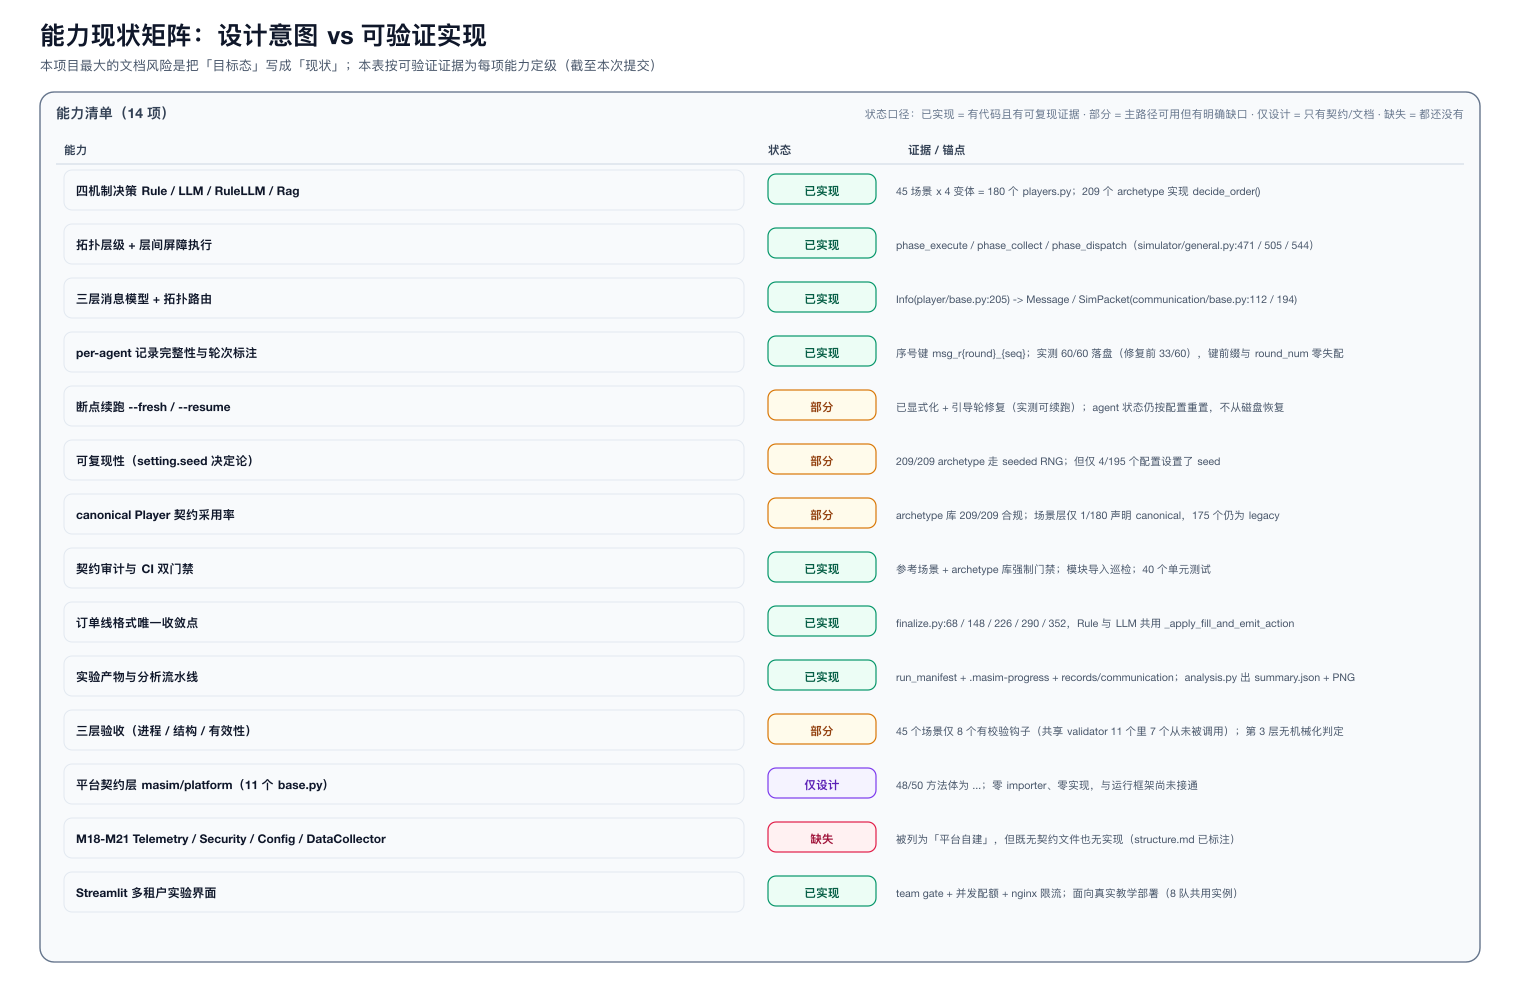
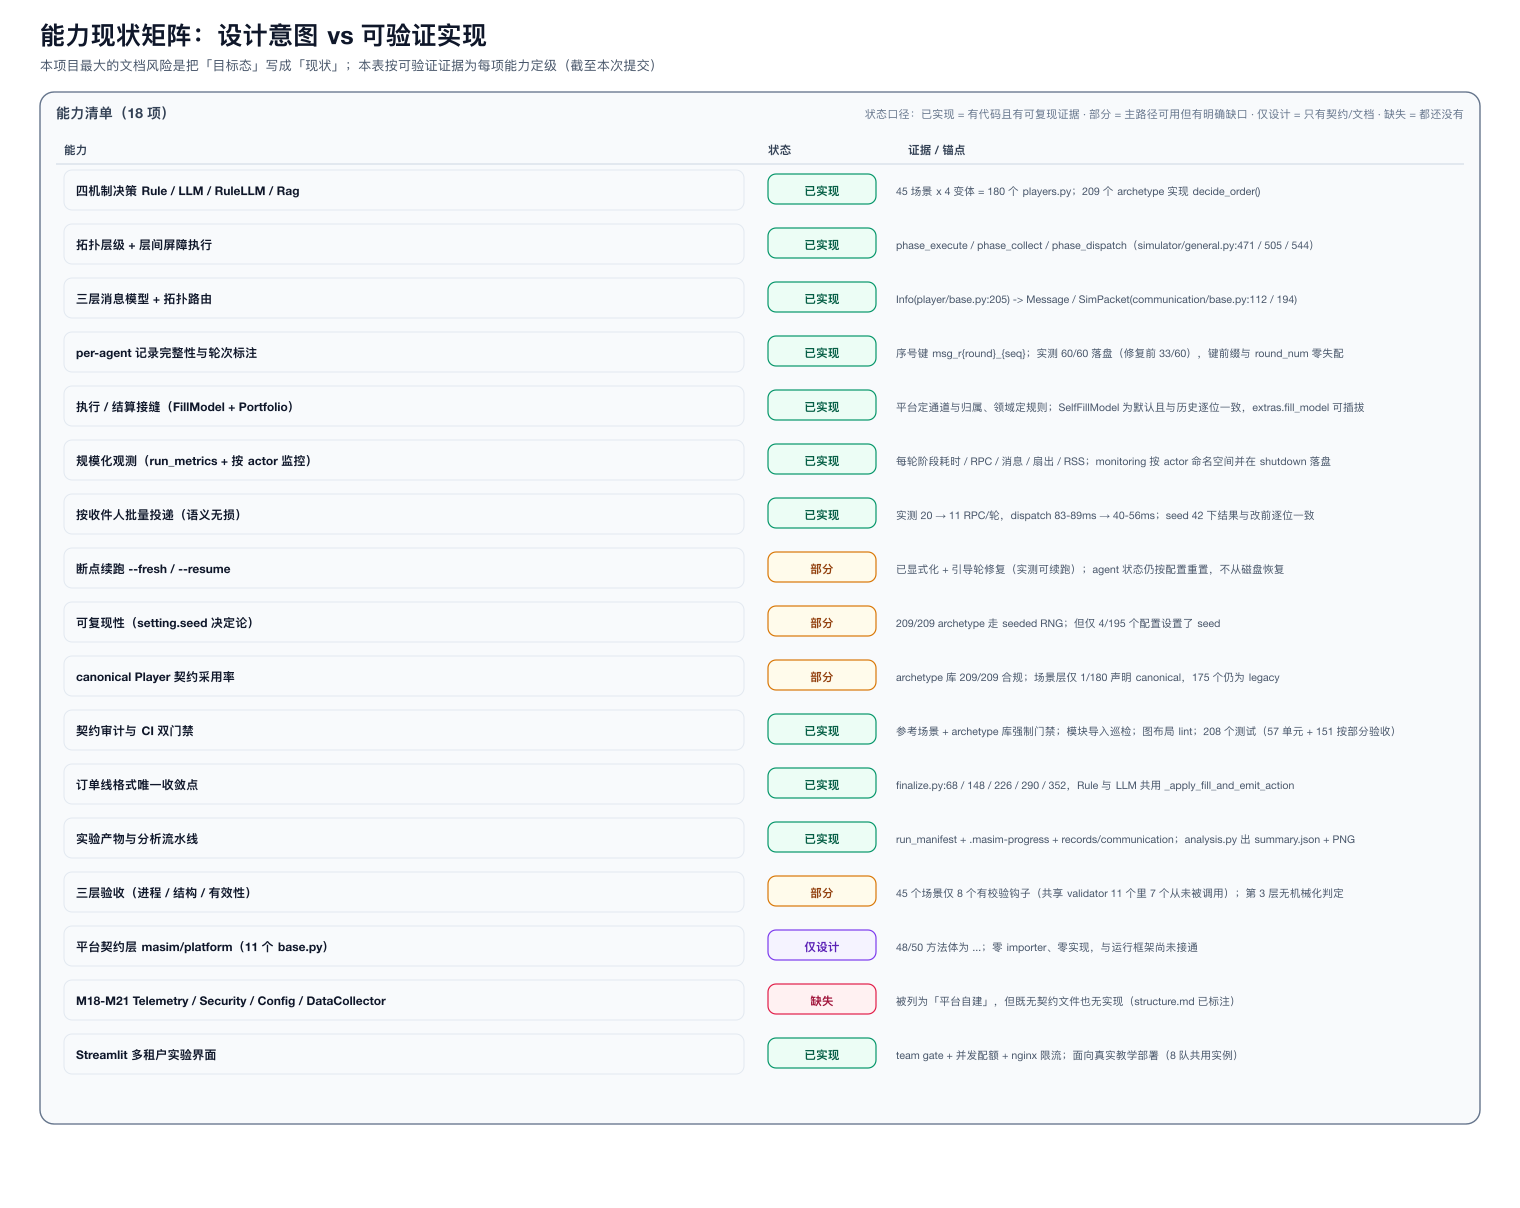
docs: record the execution seam, observability and the per-part test layout
- docs/design/README.md: new principle P10 (mechanism/policy separation) with
  the platform-owns vs user-owns table, why hardcoding one settlement policy
  cost us the microstructure tier and biased every P&L metric, and the price of
  the choice (the default is still self-fill, so ledger credibility depends on
  the scenario opting into a different model). Capability matrix and the gap
  list updated: three capabilities moved to implemented this round, and the
  remaining self-fill limitation is recorded as G4b.
- docs/design/architecture.md: new 6.1 on the execution seam (OrderIntent ->
  FillModel -> Fill -> Portfolio -> on_fill) and new 8.4 on scaling
  observation, including the 73%:2% dispatch-versus-compute measurement that
  pointed at the bottleneck and the two defects that made monitoring lie
  (never flushed; all actors sharing one directory). Quick reference now lists
  both test suites.
- docs/structure.md: module table gains masim/execution,
  masim/player/portfolio.py, masim/simulator/metrics.py and the execution
  contract, and the test entry documents the two-suite layout.
- AGENTS.md: gates now include the per-part suite; conventions record the
  single portfolio mutation path, the FillModel seam, dispatch batching,
  per-player monitoring namespaces, and the rule that information sources are
  agents (a news feed is an agent reached by a topology edge) rather than a new
  concept.
[…]

diff --git a/AGENTS.md b/AGENTS.md
@@ -22,10 +22,20 @@ python -m compileall -q masim examples scripts tests   # syntax
 python scripts/check_module_imports.py                 # real imports (catches
                                                        # NameError in signatures)
 PYTHONPATH=. python -m unittest discover -s tests -t tests -p "test_*.py"
+PYTHONPATH=. python -m unittest discover -s examples/uTests -t . -p "test_*.py"
 python scripts/audit_scenario_contract.py --scope archetypes --no-legacy-info
 python scripts/audit_scenario_contract.py --scope scenarios --scenario AnchoringEffect --no-legacy-info
 python scripts/check_diagrams.py docs/design/diagrams      # SVG text collisions
 ```
+
+Two test suites, by design:
+
+* `tests/` — framework unit tests (fast, no Ray): contracts and internals.
+* `examples/uTests/<Part>/` — **per-part acceptance tests**: one module per
+  platform part (Agent, Time, Communication, Storage, Execution, Observability,
+  World, Config), each stating that part's guarantee. When you change a part,
+  the matching module is the spec you must keep green. `python` is not on PATH
+  in some environments; use `python3`.
 
 `compileall` alone is **not** sufficient: a runtime annotation such as
 `x: Optional[int]` in a module that never imported `Optional` compiles cleanly
@@ -51,3 +61,22 @@ and raises `NameError` on first import. That is why the import sweep exists.
   store is resolved lazily by `masim/utils/store_backend.py`.
 - Tests live in the versioned `tests/` package. Tests requiring the lmbase
   backend must skip cleanly when it is absent.
+- Cash and position change **only** through
+  `masim.player.portfolio.Portfolio.apply_fill()`. Never write
+  `custom_state["cash"]` / `["position"]` directly; the audit reports those as
+  `SEM-CASH-MUT`.
+- An order becomes a fill **only** through the agent's `FillModel`
+  (`masim/platform/execution/base.py`). The default
+  `SelfFillModel` reproduces the historical agent-side fill; a scenario swaps
+  the policy with `extras.fill_model` ("module:Class" or an instance), or an
+  archetype overrides the `FILL_MODEL` class attribute.
+- Dispatch batches every message bound for the same recipient into one
+  `receive_batch` RPC. Keep `BasePersona.receive_batch` on any new persona; the
+  default loops `receive_message`, so per-message handling stays identical.
+- Everything that participates in the simulation is an **agent**, including
+  information sources: a news feed is an agent, and a financial entity receives
+  it by having a topology edge to it. Do not add a separate "source" concept —
+  extend the agent/topology layer instead.
+- `monitoring/` and `checkpoints/` are namespaced per player id (like
+  `records/`). Sharing one directory across actors silently drops records,
+  because BlockBasedStoreManager treats a duplicate key as an update.

diff --git a/docs/structure.md b/docs/structure.md
@@ -86,6 +86,10 @@ multiagent-simulation/
 | `masim/evaluation` | 金融指标、验证、可视化 | `finance/*` |
 | `masim/format` | prompt / 订单 schema / 最终化 | `order.py` / `finalize.py` |
 | `masim/interface` | Streamlit 回放与分析 | `app.py` |
+| `masim/execution` | **执行策略**（默认 `SelfFillModel`、示例 `MarketPriceFillModel`） | `FillModel` |
+| `masim/player/portfolio.py` | **账本唯一变更入口** | `Portfolio.apply_fill()` |
+| `masim/simulator/metrics.py` | **规模化观测**（阶段耗时/RPC/消息/扇出/内存） | `RunMetrics` / `monitoring/run_metrics.json` |
+| `masim/platform/execution/base.py` | 执行/结算**契约**（只定义） | `OrderIntent` / `Fill` / `FillModel` |
 | `masim/utils` | 配置、拓扑、Ray、结果读取 | `load_config` / `load_results` / `TopologyGraph` |
 
 ## 5. 场景与机制
@@ -111,7 +115,10 @@ multiagent-simulation/
   - **入向轮次标注**：per-agent 入向记录使用**消息自身的**轮次（`Message.extras["round_num"]`），而不是接收者的 `current_round`。level>0 的 agent 在其本轮 `operate()` 之前就收到广播，旧实现会把入向记录标成上一轮（首轮标成 round 0）。
   - **引导轮（bootstrap round）**：`is_received_ready` 对 level 0 的“不等前驱”豁免，从硬编码的 `round_num == 1` 改为**本次进程执行的第一轮**（Simulator 通过 `bootstrap=True` 下发）。否则 `--resume` 从第 N 轮启动时，level 0 会因等待尚不存在的入向消息而硬失败（`masim/player/general.py`）。
   - **可选后端**：`import masim` 与契约审计**不需要** `lmbase`；只有真正落盘记录时才需要（缺失时给出带安装指引的 `ImportError`，见 `masim/utils/store_backend.py`）。
-- 测试：`PYTHONPATH=. python3 -m unittest discover -s tests -t tests -p "test_*.py" -v`（`tests/` 已纳入版本库；依赖 `lmbase` 的用例在缺失时自动 skip）。
+- 测试：两套，各司其职。
+  - `tests/`（单元，快速）：`PYTHONPATH=. python3 -m unittest discover -s tests -t tests -p "test_*.py"`
+  - `examples/uTests/<Part>/`（**按平台部分划分的验收测试**，每部分一个模块）：`PYTHONPATH=. python3 -m unittest discover -s examples/uTests -t . -p "test_*.py"`
+  - 依赖 `lmbase` 的用例在缺失时自动 skip；`examples/uTests/` 需要 `.gitignore` 的 `!examples/uTests/` 白名单（`*TEST*` 规则会吃掉它）。
 - 契约审计：`python scripts/audit_scenario_contract.py --scope {all|scenarios|archetypes}`；CI 对 `AnchoringEffect` 与 archetype 库**强制门禁**，对其余场景语料仅记录基线。
 - 验收三层：运行成功 → 结构成功 → 场景有效（复现目标机制）；进程 `SUCCESS` ≠ 场景有效。
 
